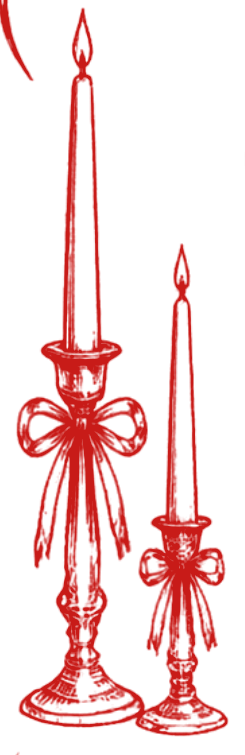
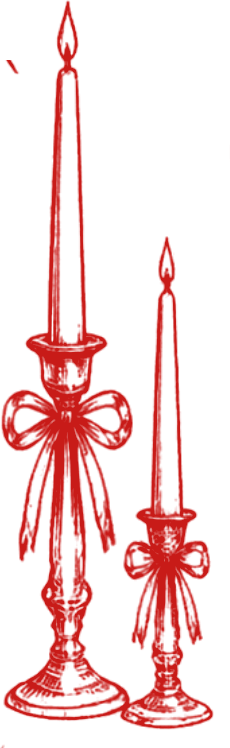
Softer design: new fonts, calmer inner pages, scroll-reactive disco ball
Claude-Session: https://claude.ai/code/session_01XDZUmWwtCE5UDyAeJEju6P

Changed region(s): [[0.0, 0.0, 0.9435, 0.984], [0.0, 0.0, 0.1522, 0.123]]

diff --git a/index.html b/index.html
@@ -6,36 +6,31 @@
 <title>Odette & Madison — We Eloped Party</title>
 <link rel="preconnect" href="https://fonts.googleapis.com">
 <link rel="preconnect" href="https://fonts.gstatic.com" crossorigin>
-<link href="https://fonts.googleapis.com/css2?family=Bodoni+Moda:opsz,wght@6..96,500;6..96,600&family=Courier+Prime:wght@400;700&family=Pinyon+Script&display=swap" rel="stylesheet">
+<link href="https://fonts.googleapis.com/css2?family=DM+Sans:opsz,wght@9..40,400;9..40,500;9..40,600&family=Fraunces:ital,opsz,wght,SOFT,WONK@0,9..144,300..600,0..100,0..1;1,9..144,300..600,0..100,0..1&display=swap" rel="stylesheet">
 <style>
   :root{
     --sky:#e9fbfd;
-    --sky-2:#d9f4f7;
+    --cream:#fffdf9;
     --red:#c81b18;
-    --red-soft:rgba(200,27,24,.14);
-    --ink:#7a1210;
+    --red-soft:rgba(200,27,24,.18);
+    --text:#3b2b2b;
+    --muted:#7a6464;
   }
   *{box-sizing:border-box}
-  html,body{margin:0;background:var(--sky);color:var(--red)}
-  body{font-family:"Courier Prime",ui-monospace,monospace;font-size:16px;line-height:1.55;-webkit-font-smoothing:antialiased}
+  html,body{margin:0;background:var(--sky);color:var(--text)}
+  body{font-family:"DM Sans",system-ui,sans-serif;font-size:16px;line-height:1.6;-webkit-font-smoothing:antialiased}
   a{color:var(--red)}
   img{display:block;max-width:100%}
+  .serif{font-family:"Fraunces",Georgia,serif;font-variation-settings:"SOFT" 100,"WONK" 1}
 
-  /* wavy ribbon frame */
-  .frame{position:fixed;inset:10px;border:1.5px solid var(--red);border-radius:28px;pointer-events:none;z-index:0;opacity:.55}
-  .corner{position:fixed;width:74px;z-index:1;pointer-events:none}
-  .corner.tl{top:4px;left:4px}
-  .corner.tr{top:4px;right:4px;transform:scaleX(-1)}
-  @media (max-width:640px){.corner{width:52px}.frame{inset:6px;border-radius:20px}}
-
-  .wrap{position:relative;z-index:2;max-width:900px;margin:0 auto;padding:28px 26px 80px}
+  .wrap{position:relative;max-width:920px;margin:0 auto;padding:26px 22px 70px}
 
   /* header + tabs */
-  header{text-align:center;padding-top:10px}
-  .names{letter-spacing:.32em;text-transform:uppercase;font-size:15px;display:flex;justify-content:center;gap:14px;align-items:center}
-  .star{display:inline-block;width:10px;height:10px;background:var(--red);clip-path:polygon(50% 0,62% 38%,100% 50%,62% 62%,50% 100%,38% 62%,0 50%,38% 38%)}
-  nav{display:flex;flex-wrap:wrap;justify-content:center;gap:6px 8px;margin:22px 0 6px}
-  nav a{font-family:"Courier Prime",monospace;text-transform:uppercase;letter-spacing:.18em;font-size:13px;text-decoration:none;padding:8px 14px;border:1.5px solid transparent;border-radius:999px;transition:background .2s,border-color .2s}
+  header{text-align:center;padding-top:8px}
+  .names{color:var(--red);letter-spacing:.3em;text-transform:uppercase;font-size:13px;font-weight:600;display:flex;justify-content:center;gap:12px;align-items:center}
+  .star{display:inline-block;width:9px;height:9px;background:var(--red);clip-path:polygon(50% 0,62% 38%,100% 50%,62% 62%,50% 100%,38% 62%,0 50%,38% 38%)}
+  nav{display:flex;flex-wrap:wrap;justify-content:center;gap:4px 6px;margin:18px 0 4px}
+  nav a{color:var(--red);text-transform:uppercase;letter-spacing:.16em;font-size:12.5px;font-weight:500;text-decoration:none;padding:8px 14px;border:1px solid transparent;border-radius:999px;transition:background .2s,border-color .2s}
   nav a:hover{border-color:var(--red-soft)}
   nav a[aria-current="page"]{border-color:var(--red);background:#fff}
 
@@ -43,77 +38,80 @@
   section.on{display:block}
   @keyframes fade{from{opacity:0;transform:translateY(6px)}to{opacity:1;transform:none}}
 
-  h1,h2{font-family:"Bodoni Moda",serif;font-weight:500;text-transform:uppercase;line-height:.9;margin:0;letter-spacing:-.01em}
-  h2{font-size:clamp(44px,8vw,72px);text-align:center;margin:30px 0 8px}
-  .kicker{text-align:center;text-transform:uppercase;letter-spacing:.22em;font-size:13px;margin:0 0 30px}
+  h1,h2,h3{font-family:"Fraunces",Georgia,serif;font-variation-settings:"SOFT" 100,"WONK" 1;font-weight:400;color:var(--red);margin:0;line-height:1}
+  h2{font-size:clamp(40px,7vw,60px);text-align:center;margin:26px 0 6px}
+  .kicker{text-align:center;color:var(--muted);font-size:15px;margin:0 0 28px}
+
+  /* inner pages sit on a calm cream panel */
+  .panel{background:var(--cream);border-radius:24px;padding:10px clamp(18px,4vw,40px) 36px;box-shadow:0 18px 40px -30px rgba(122,18,16,.35)}
 
   /* home */
-  .hero{position:relative;text-align:center;margin-top:20px}
-  .hero h1{font-size:clamp(64px,13vw,124px)}
-  .party{width:min(520px,82%);margin:-6px auto 0}
-  .disco{position:absolute;right:2%;top:-14px;width:clamp(80px,15vw,140px);animation:sway 6s ease-in-out infinite;transform-origin:50% 0}
+  .hero{position:relative;text-align:center;padding:34px 0 0}
+  .hero h1{font-size:clamp(68px,13vw,128px);letter-spacing:-.02em;line-height:.92}
+  .party{width:min(480px,78%);margin:-4px auto 0}
+  .bow{position:absolute;top:0;width:clamp(48px,8vw,70px);pointer-events:none}
+  .bow.l{left:0}.bow.r{right:0;transform:scaleX(-1)}
+  .disco-wrap{position:absolute;right:9%;top:6px;width:clamp(76px,13vw,128px);transform-origin:50% 0;animation:sway 6s ease-in-out infinite}
+  .disco{transform-origin:50% 0;transition:transform .25s ease-out,filter .25s ease-out;will-change:transform}
   @keyframes sway{0%,100%{transform:rotate(-3deg)}50%{transform:rotate(3deg)}}
-  .candles{position:absolute;left:1%;top:60px;width:clamp(56px,10vw,96px)}
-  @media (max-width:640px){.candles{display:none}.disco{width:58px;top:-48px;right:6%}.hero{margin-top:46px}}
+  .candles{position:absolute;left:8%;top:90px;width:clamp(56px,9vw,88px)}
+  @media (max-width:640px){.candles{display:none}.disco-wrap{width:54px;top:46px;right:4%}.hero{padding-top:52px}.bow{width:44px}}
+  @media (prefers-reduced-motion:reduce){.disco-wrap{animation:none}.disco{transition:none}}
 
-  .infobar{display:grid;grid-template-columns:1fr 1.4fr 1fr;align-items:center;margin:34px auto 0;max-width:720px;text-align:center}
+  .infobar{display:grid;grid-template-columns:1fr 1.4fr 1fr;align-items:center;margin:30px auto 0;max-width:700px;text-align:center}
   .infobar>div{padding:6px 14px}
-  .infobar>div+div{border-left:1.5px solid var(--red)}
-  .big{font-family:"Bodoni Moda",serif;font-size:52px;line-height:1}
-  .small{text-transform:uppercase;letter-spacing:.14em;font-size:13px}
-  .venue{font-weight:700;letter-spacing:.14em;text-transform:uppercase;font-size:16px}
-  @media (max-width:640px){.infobar{grid-template-columns:1fr}.infobar>div+div{border-left:0;border-top:1.5px solid var(--red);margin-top:10px;padding-top:14px}}
+  .infobar>div+div{border-left:1px solid var(--red-soft)}
+  .big{font-family:"Fraunces",Georgia,serif;font-variation-settings:"SOFT" 100,"WONK" 1;color:var(--red);font-size:50px;line-height:1}
+  .small{text-transform:uppercase;letter-spacing:.14em;font-size:12px;color:var(--muted)}
+  .venue{font-weight:600;letter-spacing:.12em;text-transform:uppercase;font-size:15px;color:var(--red)}
+  @media (max-width:640px){.infobar{grid-template-columns:1fr}.infobar>div+div{border-left:0;border-top:1px solid var(--red-soft);margin-top:10px;padding-top:14px}}
 
-  .photo{margin:46px auto 0;max-width:760px;padding:12px;background:#fff;border:1.5px solid var(--red);border-radius:6px;transform:rotate(-1.2deg);box-shadow:0 14px 30px -18px rgba(122,18,16,.45)}
+  .photo{margin:44px auto 0;max-width:740px;padding:12px 12px 14px;background:#fff;border-radius:6px;transform:rotate(-1.2deg);box-shadow:0 18px 36px -22px rgba(60,20,20,.45)}
   .photo img{filter:grayscale(1) contrast(1.02);border-radius:2px}
-  .caption{font-family:"Pinyon Script",cursive;font-size:30px;text-align:center;margin-top:8px;color:var(--red)}
+  .caption{font-family:"Fraunces",Georgia,serif;font-style:italic;font-variation-settings:"SOFT" 100,"WONK" 1;font-weight:300;font-size:28px;text-align:center;margin-top:12px;color:var(--red)}
 
-  .countdown{display:flex;justify-content:center;gap:18px;margin:44px 0 0;flex-wrap:wrap}
-  .countdown div{min-width:82px;text-align:center;border:1.5px solid var(--red);border-radius:14px;padding:10px 6px;background:#fff}
-  .countdown b{display:block;font-family:"Bodoni Moda",serif;font-size:40px;font-weight:500;line-height:1.1}
-  .countdown span{text-transform:uppercase;letter-spacing:.14em;font-size:11px}
-
-  .story{max-width:560px;margin:40px auto 0;text-align:center}
+  .countdown{display:flex;justify-content:center;gap:14px;margin:38px 0 0;flex-wrap:wrap}
+  .countdown div{min-width:82px;text-align:center;border:1px solid var(--red-soft);border-radius:14px;padding:10px 6px;background:#fff}
+  .countdown b{display:block;font-family:"Fraunces",Georgia,serif;font-variation-settings:"SOFT" 100,"WONK" 1;font-weight:400;color:var(--red);font-size:38px;line-height:1.1}
+  .countdown span{text-transform:uppercase;letter-spacing:.14em;font-size:11px;color:var(--muted)}
+  .center{text-align:center}
 
   /* schedule */
-  .timeline{max-width:620px;margin:0 auto;position:relative}
-  .timeline:before{content:"";position:absolute;left:112px;top:8px;bottom:8px;border-left:1.5px dashed var(--red)}
-  .ev{display:grid;grid-template-columns:96px 1fr;gap:34px;padding:16px 0;position:relative}
-  .ev:after{content:"";position:absolute;left:105px;top:24px;width:14px;height:14px;background:var(--red);clip-path:polygon(50% 0,62% 38%,100% 50%,62% 62%,50% 100%,38% 62%,0 50%,38% 38%)}
-  .ev .t{font-family:"Bodoni Moda",serif;font-size:28px;text-align:right;line-height:1.1}
-  .ev h3{margin:0;font-family:"Courier Prime",monospace;text-transform:uppercase;letter-spacing:.14em;font-size:16px}
-  .ev p{margin:4px 0 0;color:var(--ink)}
-  .cake{width:min(300px,70%);margin:30px auto 0}
-  .note{max-width:620px;margin:26px auto 0;text-align:center;border:1.5px solid var(--red);border-radius:14px;padding:14px 18px;background:#fff}
+  .timeline{max-width:600px;margin:0 auto;position:relative}
+  .timeline:before{content:"";position:absolute;left:104px;top:10px;bottom:10px;border-left:1px dashed var(--red-soft)}
+  .ev{display:grid;grid-template-columns:88px 1fr;gap:34px;padding:14px 0;position:relative}
+  .ev:after{content:"";position:absolute;left:98px;top:22px;width:13px;height:13px;background:var(--red);clip-path:polygon(50% 0,62% 38%,100% 50%,62% 62%,50% 100%,38% 62%,0 50%,38% 38%)}
+  .ev .t{font-family:"Fraunces",Georgia,serif;font-variation-settings:"SOFT" 100,"WONK" 1;color:var(--red);font-size:26px;text-align:right;line-height:1.1}
+  .ev h3{font-family:"DM Sans",sans-serif;font-variation-settings:normal;font-weight:600;text-transform:uppercase;letter-spacing:.12em;font-size:14px;color:var(--text);margin-top:4px}
+  .ev p{margin:4px 0 0;color:var(--muted)}
+  .note{max-width:600px;margin:24px auto 0;text-align:center;border:1px solid var(--red-soft);border-radius:14px;padding:14px 18px;background:#fff}
+  .note b{color:var(--red);letter-spacing:.1em;font-size:13px}
+  .art{width:120px;margin:28px auto 0;opacity:.9}
 
   /* cards */
-  .cards{display:grid;grid-template-columns:repeat(auto-fit,minmax(230px,1fr));gap:18px}
-  .card{background:#fff;border:1.5px solid var(--red);border-radius:16px;padding:20px 20px 22px;position:relative}
-  .card h3{margin:0 0 6px;font-family:"Bodoni Moda",serif;font-weight:500;text-transform:uppercase;font-size:26px;line-height:1}
-  .card p{margin:6px 0;color:var(--ink)}
-  .card .tag{text-transform:uppercase;letter-spacing:.16em;font-size:11px;color:var(--red)}
-  .btn{display:inline-flex;align-items:center;gap:8px;margin-top:12px;font-family:"Courier Prime",monospace;font-weight:700;text-transform:uppercase;letter-spacing:.16em;font-size:13px;padding:11px 18px;border-radius:999px;border:1.5px solid var(--red);background:var(--red);color:#fff;text-decoration:none;cursor:pointer}
+  .cards{display:grid;grid-template-columns:repeat(auto-fit,minmax(230px,1fr));gap:16px}
+  .card{background:#fff;border:1px solid #f1dcd9;border-radius:16px;padding:20px 20px 22px}
+  .card h3{font-size:26px;margin:0 0 6px}
+  .card p{margin:6px 0;color:var(--text)}
+  .card .tag{text-transform:uppercase;letter-spacing:.16em;font-size:11px;font-weight:600;color:var(--red);margin-bottom:6px}
+  .btn{display:inline-flex;align-items:center;gap:8px;margin-top:12px;font-family:"DM Sans",sans-serif;font-weight:600;text-transform:uppercase;letter-spacing:.14em;font-size:12.5px;padding:11px 18px;border-radius:999px;border:1px solid var(--red);background:var(--red);color:#fff;text-decoration:none;cursor:pointer}
   .btn.ghost{background:transparent;color:var(--red)}
   .btn[aria-disabled="true"]{opacity:.45;pointer-events:none}
-  .glasses{width:min(220px,55%);margin:34px auto 0}
+  .sub{font-size:clamp(30px,5vw,40px)!important;margin-top:40px!important}
 
   /* rsvp */
-  .rsvp{display:grid;grid-template-columns:1fr 1fr;gap:30px;align-items:center;max-width:820px;margin:0 auto}
+  .rsvp{display:grid;grid-template-columns:1fr 1fr;gap:30px;align-items:center;max-width:800px;margin:0 auto}
   .rsvp .photo{margin:0;transform:rotate(1.5deg)}
   .rsvp-box{text-align:center}
-  .rsvp-box .deadline{font-family:"Bodoni Moda",serif;font-size:34px;line-height:1.05;margin:8px 0 14px}
+  .rsvp-box .deadline{font-family:"Fraunces",Georgia,serif;font-variation-settings:"SOFT" 100,"WONK" 1;color:var(--red);font-size:34px;line-height:1.1;margin:8px 0 14px}
   @media (max-width:700px){.rsvp{grid-template-columns:1fr}}
 
-  footer{text-align:center;margin-top:60px;letter-spacing:.2em;text-transform:uppercase;font-size:12px}
-  footer img{width:90px;margin:0 auto 8px}
-  .toast{position:fixed;left:50%;bottom:26px;transform:translateX(-50%);background:var(--red);color:#fff;padding:10px 18px;border-radius:999px;font-size:13px;letter-spacing:.1em;opacity:0;transition:opacity .25s;z-index:9}
+  footer{text-align:center;margin-top:50px;letter-spacing:.2em;text-transform:uppercase;font-size:11.5px;color:var(--red)}
+  .toast{position:fixed;left:50%;bottom:26px;transform:translateX(-50%);background:var(--red);color:#fff;padding:10px 18px;border-radius:999px;font-size:13px;letter-spacing:.06em;opacity:0;transition:opacity .25s;z-index:9}
   .toast.show{opacity:1}
 </style>
 </head>
 <body>
-<div class="frame" aria-hidden="true"></div>
-<img class="corner tl" src="img/bow.png" alt="" aria-hidden="true">
-<img class="corner tr" src="img/bow.png" alt="" aria-hidden="true">
 
 <div class="wrap">
   <header>
@@ -130,8 +128,10 @@
   <!-- HOME -->
   <section id="home">
     <div class="hero">
-      <img class="disco" src="img/disco.png" alt="">
-      <img class="candles" src="img/candles.png" alt="">
+      <img class="bow l" src="img/bow.png" alt="" aria-hidden="true">
+      <img class="bow r" src="img/bow.png" alt="" aria-hidden="true">
+      <div class="disco-wrap" aria-hidden="true"><img class="disco" id="disco" src="img/disco.png" alt=""></div>
+      <img class="candles" src="img/candles.png" alt="" aria-hidden="true">
       <h1>We<br>Eloped</h1>
       <img class="party" src="img/party.png" alt="Party">
     </div>
@@ -153,21 +153,20 @@
     </figure>
     <div class="caption">just married, let's party</div>
 
-    <p class="story" data-f="story"></p>
-    <div style="text-align:center"><a class="btn" href="#rsvp">RSVP</a></div>
+    <div class="center" style="margin-top:22px"><a class="btn" href="#rsvp">RSVP</a></div>
   </section>
 
   <!-- SCHEDULE -->
-  <section id="schedule">
+  <section id="schedule"><div class="panel">
     <h2>Schedule</h2>
     <p class="kicker"><span data-f="dateLong"></span> · <span data-f="venueName"></span></p>
     <div class="timeline" id="timeline"></div>
     <div class="note"><b>DRESS CODE:</b> <span data-f="dressCode"></span></div>
-    <img class="cake" src="img/cake.png" alt="">
-  </section>
+    <img class="art" src="img/cake.png" alt="" aria-hidden="true">
+  </div></section>
 
   <!-- TRAVEL -->
-  <section id="travel">
+  <section id="travel"><div class="panel">
     <h2>Travel</h2>
     <p class="kicker">See you in Fort Lauderdale</p>
     <div class="cards">
@@ -189,21 +188,21 @@
         <p data-f="parking"></p>
       </div>
     </div>
-    <h2 style="font-size:clamp(34px,6vw,48px);margin-top:46px">Where to stay</h2>
+    <h2 class="sub">Where to stay</h2>
     <p class="kicker" data-f="hotelNote"></p>
     <div class="cards" id="hotels"></div>
-    <img class="glasses" src="img/glasses.png" alt="">
-  </section>
+    <img class="art" src="img/glasses.png" alt="" aria-hidden="true" style="width:96px">
+  </div></section>
 
   <!-- REGISTRY -->
-  <section id="registry">
+  <section id="registry"><div class="panel">
     <h2>Registry</h2>
     <p class="kicker" data-f="registryNote"></p>
     <div class="cards" id="registryCards"></div>
-  </section>
+  </div></section>
 
   <!-- RSVP -->
-  <section id="rsvp">
+  <section id="rsvp"><div class="panel">
     <h2>RSVP</h2>
     <p class="kicker">Kindly reply so we save you a spot on the dance floor</p>
     <div class="rsvp">
@@ -215,10 +214,9 @@
         <p style="margin-top:22px" data-f="rsvpAlt"></p>
       </div>
     </div>
-  </section>
+  </div></section>
 
   <footer>
-    <img src="img/bow.png" alt="" aria-hidden="true">
     Odette & Madison · <span data-f="dateMonthShort"></span>
   </footer>
 </div>
@@ -236,7 +234,6 @@ const CONFIG = {
   venueName: "Emily's Garden",
   venueAddress: "327 SW 2nd St, Fort Lauderdale, FL 33312",
   venueAddressFull: "327 SW 2nd St, Fort Lauderdale, FL 33312",
-  story: "We said “I do” just the two of us — now we want to celebrate with the people we love most. Come for champagne, cake and a whole lot of dancing.",
   dressCode: "[Cocktail chic — a pop of red welcome]",
   schedule: [
     { time: "6:00", title: "Welcome & cocktails", text: "[Champagne on arrival, mingling in the garden]" },
@@ -307,6 +304,20 @@ function route(){
   window.scrollTo(0, 0);
 }
 addEventListener("hashchange", route); route();
+
+// disco ball swings and catches the light as you scroll
+const disco = document.getElementById("disco");
+const calm = matchMedia("(prefers-reduced-motion: reduce)").matches;
+let ticking = false;
+function spin(){
+  const y = window.scrollY;
+  const swing = Math.sin(y / 90) * 14;
+  const glint = 1 + 0.18 * Math.abs(Math.sin(y / 45));
+  disco.style.transform = `rotate(${swing.toFixed(2)}deg)`;
+  disco.style.filter = `brightness(${glint.toFixed(3)})`;
+  ticking = false;
+}
+if (disco && !calm) addEventListener("scroll", () => { if (!ticking) { ticking = true; requestAnimationFrame(spin); } }, { passive: true });
 </script>
 </body>
 </html>
